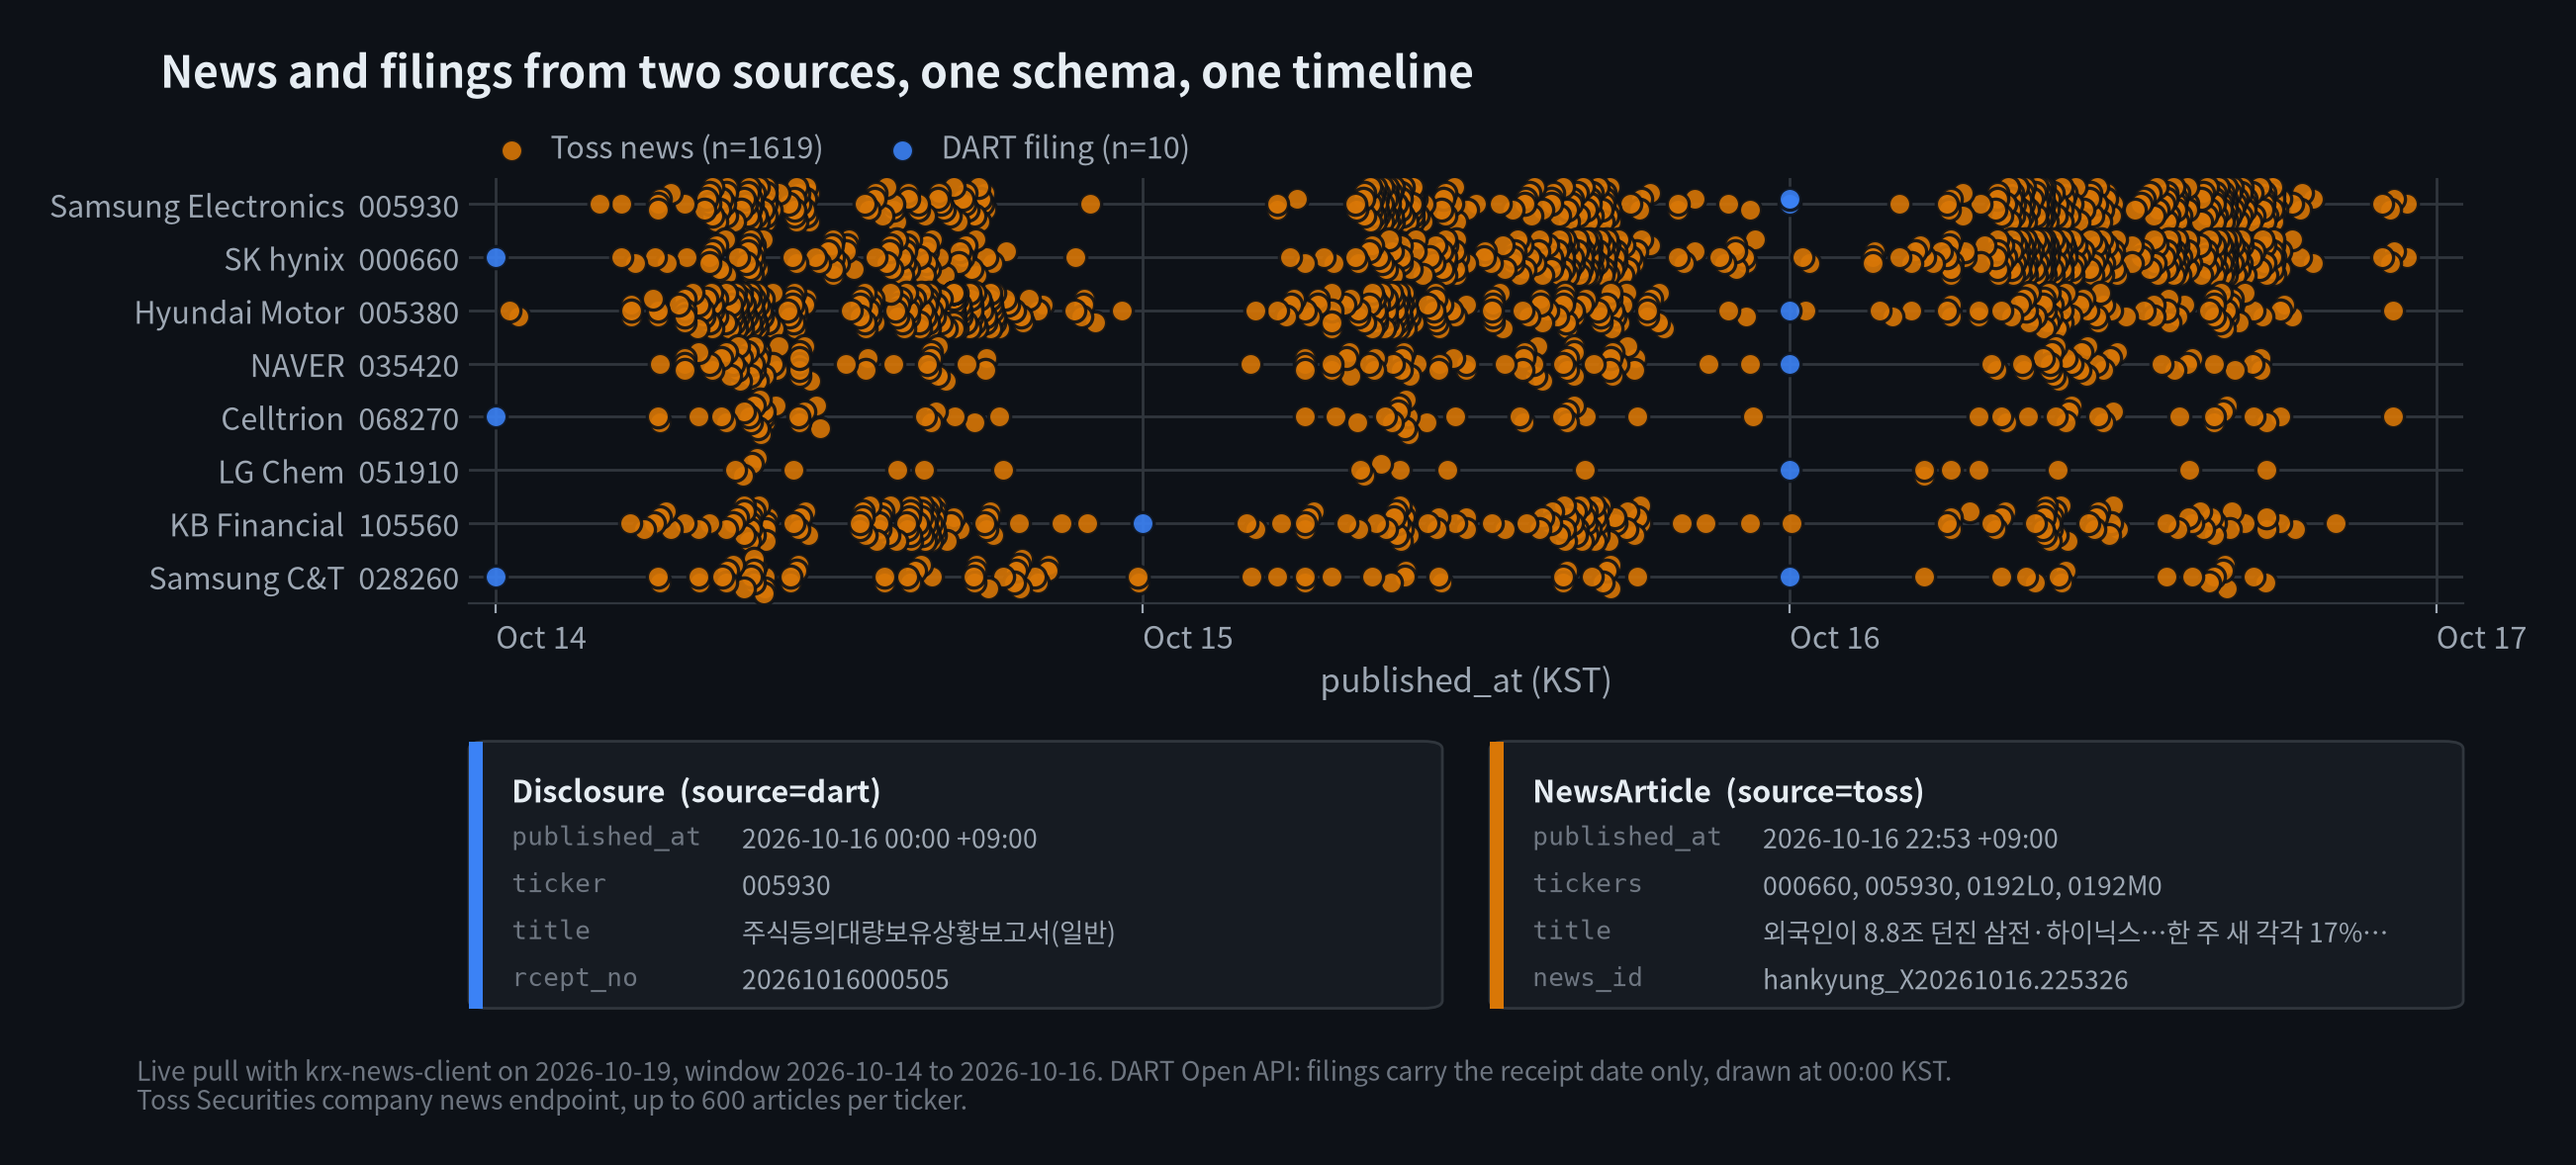
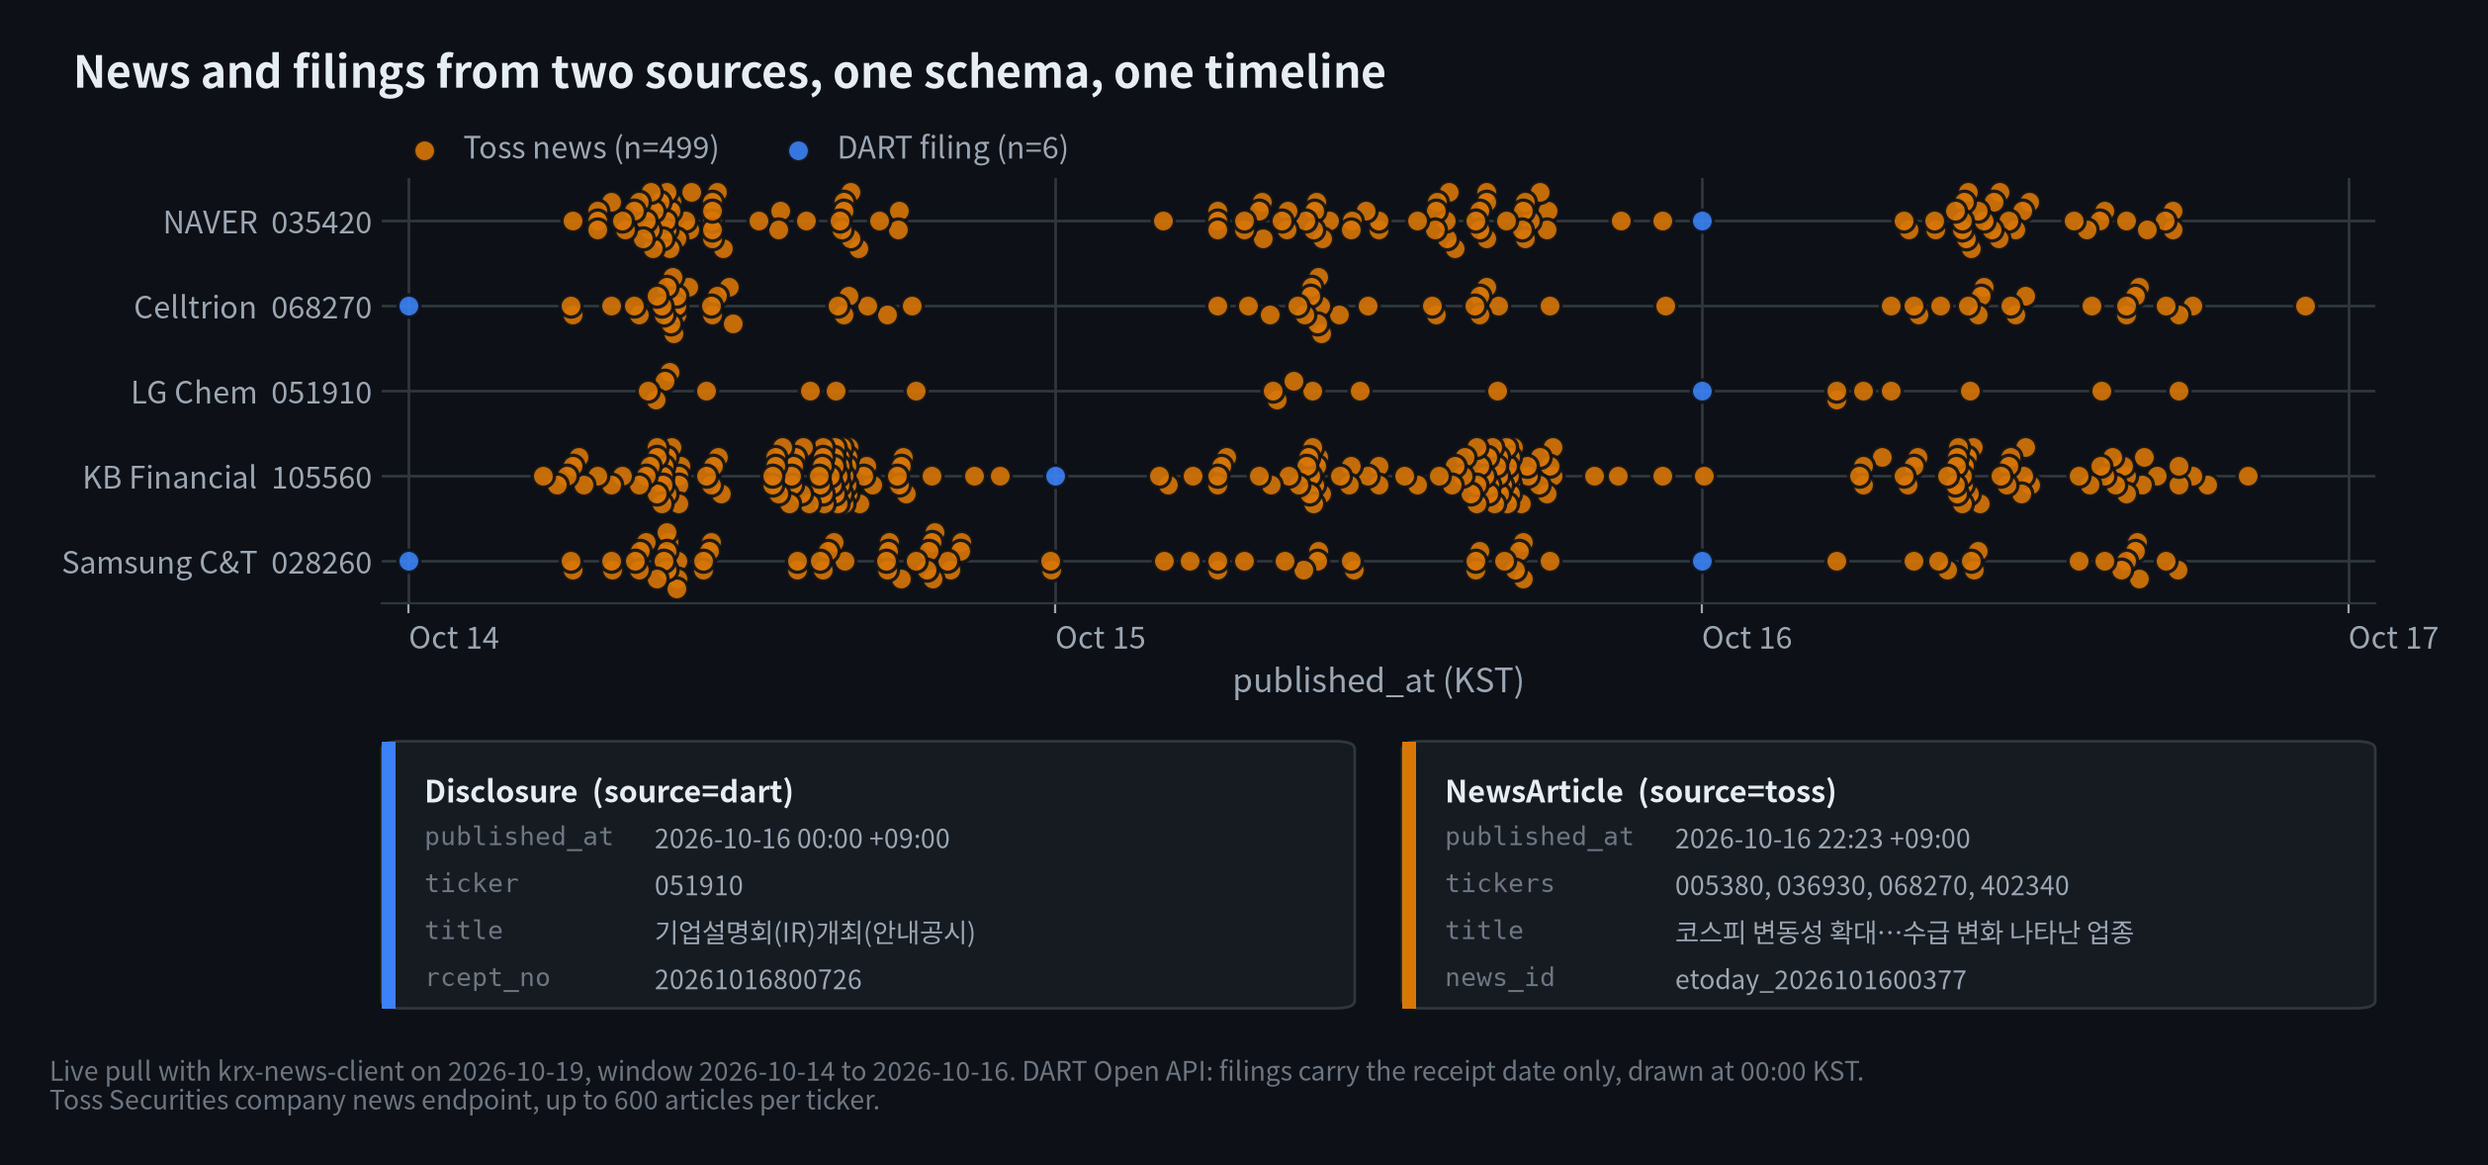
docs(readme): 첫 화면을 훅·히어로·사실 셋·Quick start 로 다듬고 독립 리뷰를 반영
처음 보는 사람이 스크롤 전에 무엇인지·왜 흥미로운지·어떻게 써 보는지를 알게 한다.
본문은 위에서 아래로 읽을 때 필요한 것만 남기고, 모든 수치는 코드·데이터와 대조했다.
리뷰어가 짚은 과장·낡은 수치·깨진 예제를 고쳤다. 관련 프로젝트 푸터는 stack.yml 생성분 그대로.

diff --git a/scripts/make_hero.py b/scripts/make_hero.py
@@ -26,10 +26,8 @@ ROOT = Path(__file__).resolve().parent.parent
 DATA = ROOT / "docs" / "images" / "hero-data.json"
 
 #: 그림에 보일 종목 (위→아래 순서). 이름은 영어로 — 그림 안 글자는 영어.
+#: 초대형주(삼성전자·SK하이닉스·현대차)는 3일에 350건이 넘어 점이 뭉개진다 — 그림에는 넣지 않는다.
 TICKERS = [
-    ("005930", "Samsung Electronics"),
-    ("000660", "SK hynix"),
-    ("005380", "Hyundai Motor"),
     ("035420", "NAVER"),
     ("068270", "Celltrion"),
     ("051910", "LG Chem"),
@@ -137,7 +135,10 @@ def _card(fig, p, x0, y0, w, h, color, head, fields):
 def draw_factory(data: dict):
     start = date.fromisoformat(data["window"]["start"])
     end = date.fromisoformat(data["window"]["end"])
-    tickers = data["tickers"]
+    # JSON 에 더 많은 종목이 저장돼 있어도 TICKERS 순서·범위대로만 그린다.
+    shown = [c for c, _ in TICKERS]
+    tickers = sorted((t for t in data["tickers"] if t["code"] in shown),
+                     key=lambda t: shown.index(t["code"]))
     rows = {t["code"]: i for i, t in enumerate(tickers)}
     items = [it for it in data["items"] if it["ticker"] in rows
              and start <= datetime.fromisoformat(it["published_at"]).astimezone(KST).date() <= end]

diff --git a/README.md b/README.md
@@ -1,5 +1,7 @@
 # krx-news-client
 
+**DART 공시와 토스증권 뉴스를 한 스키마로 받는 Python 클라이언트 — 기사 본문과 종목별 과거 뉴스까지, `pip install` 한 줄.**
+
 [![CI](https://github.com/younghwan91/krx-news-client/actions/workflows/ci.yml/badge.svg)](https://github.com/younghwan91/krx-news-client/actions/workflows/ci.yml)
 [![Python](https://img.shields.io/badge/python-3.11%2B-blue.svg)](https://www.python.org/downloads/)
 [![License](https://img.shields.io/github/license/younghwan91/krx-news-client)](https://github.com/younghwan91/krx-news-client/blob/main/LICENSE)
@@ -10,19 +12,15 @@
   <img alt="DART 공시와 토스증권 뉴스를 종목별 한 타임라인에 찍고, 두 출처가 같은 필드로 채워진 레코드 카드 두 장" src="docs/images/hero-light.png" width="100%">
 </picture>
 
-**한국 주식시장의 뉴스·공시를 모아 하나의 스키마로 내주는 Python 클라이언트 라이브러리** — DART, 토스증권.
-
-매체마다 HTML 구조도 갱신 주기도 제각각이라, 뉴스를 쓰려는 쪽이 매번 크롤러를 다시 짜게 된다. 그 일을 한 번만 하려고 만들었다. [kiwoom-client](https://github.com/younghwan91/kiwoom-client)와 같은 성격의 라이브러리다 — 서버를 띄우지 않고, 호출한 프로세스 안에서 그때그때 매체에 직접 요청해 정규화된 결과를 돌려준다.
-
-## 설치
-
-Python 3.11 이상.
-
-```bash
-pip install krx-news-client
-```
+- **두 출처, 한 타임라인.** 공시(`Disclosure`)와 기사(`NewsArticle`)가 `id`·`source`·`title`·`url`·`published_at`(KST, tz 포함)을 같은 이름으로 갖는다. 출처가 늘어도 호출 코드는 그대로다.
+- **조용한 0건 대신 예외.** 토스는 비공식 내부 API라 예고 없이 바뀔 수 있다. 종목별 뉴스 응답의 형식이 달라지면 빈 목록을 돌려주지 않고 `TossResponseError`를 올린다(대시보드 피드는 `scrape_news(strict=True)`를 주면 예외). 잘못된 종목코드·페이지 크기는 요청 전에 `ValueError`로 막는다.
+- **종목별 과거 뉴스를 페이지로 넘긴다.** 100건씩, 토스가 허용하는 오프셋 10,000건까지. 대형주는 그게 6개월에 못 미친다.
 
 ## 빠른 시작
+
+```bash
+pip install krx-news-client   # Python 3.11 이상
+```
 
 ```python
 import asyncio
@@ -37,19 +35,30 @@ async def main():
 asyncio.run(main())
 ```
 
-실행하면 이런 식으로 출력된다:
-
 ```
 KR 코스피, 외국인 순매수에 2%대 상승 마감 2025-06-10 15:30:00+09:00
 US 엔비디아, 실적 발표 앞두고 강세 2025-06-10 14:05:00+09:00
 ...
 ```
 
-토스 대시보드 피드는 **현재 스냅샷**이다. 해외(`nation="US"`) 기사가 절반 넘게 섞여 있고, 본문(`content`)은 비어 있으며, 과거로 넘길 수 없다. 본문과 과거 기사는 따로 가져온다:
+## 무엇을 하나
+
+| 소스 | 데이터 | 수집 방식 |
+|---|---|---|
+| DART (dart.fss.or.kr) | 공시 목록·원문 | 공식 Open API (키 필요) |
+| 토스증권 (tossinvest.com) | 대시보드 뉴스·기사 본문·종목별 뉴스 | 비공식 내부 API |
+
+- `TossScraper.scrape_news()` — 대시보드 피드의 **현재 스냅샷**. 해외(`nation="US"`) 기사가 절반 가까이 섞여 있고 본문은 비어 있으며 과거로 넘길 수 없다.
+- `TossScraper.fetch_article_detail()` / `fetch_article_detail_raw()` — 기사 본문 전체·감성 라벨·언론사 원문 URL. `_raw`는 원본 dict.
+- `TossScraper.scrape_company_news()` / `company_news_page()` — 종목별 뉴스를 과거로 페이징. 전자는 정규화된 목록, 후자는 원본 dict 한 페이지.
+- `DartScraper.scrape_disclosures()` — 공시 목록(기본: 어제~오늘 KST, 전체 시장). 키를 여러 개 주면 일 20,000건 한도를 넘길 때 다음 키로 자동 전환.
+- `DartScraper.search_disclosures*()` / `fetch_document()` — DART 원본 응답과 공시 원문(`document.xml`). 백필용 엄격 경로.
+- `Deduplicator` — 폴링할 때 처음 본 것만 넘긴다(기사는 `id`, 공시는 접수번호 기준).
+
+### 토스: 본문·종목별 이력
 
 ```python
 from datetime import date
-from krx_news_client import TossScraper
 
 async with TossScraper() as scraper:
     detail = await scraper.fetch_article_detail(articles[0].url)  # 본문 전체·감성 라벨·언론사 원문 URL
@@ -60,32 +69,28 @@ async with TossScraper() as scraper:
     items, _ = await scraper.company_news_page("005930", number=1)  # 원본 dict 한 페이지
 ```
 
-DART 공시는 API 키가 필요하다:
+### DART: 폴링과 백필
 
 ```python
 from krx_news_client import DartScraper
 
 async with DartScraper(api_key="...") as scraper:   # 또는 DartScraper.from_env()
     disclosures = await scraper.scrape_disclosures()  # 기본: 어제~오늘(KST), 전체 시장
-```
 
-날짜 범위·시장을 직접 지정하거나, 여러 키를 순환시켜 일 20,000건 한도를 넘는 대량 백필도 가능하다:
-
-```python
 scraper = DartScraper(api_key=["key1", "key2", "key3"])  # 한도 초과 시 다음 키로 자동 전환
 disclosures = await scraper.scrape_disclosures(
     bgn_de="20250101", end_de="20250331", corp_cls="Y"  # Y=코스피, K=코스닥, N=코넥스
 )
 ```
 
-정규화된 `Disclosure`가 아니라 DART 원본 응답이 필요하면 `search_disclosures`(한 페이지)/`search_disclosures_all`(전 페이지)/`search_disclosures_range`(여러 해·여러 시장)를 쓴다 — 결측을 조용히 넘기지 않고 `DartAPIError`를 그대로 올리는 엄격 경로라 백필에 적합하다. DART는 기업을 지정하지 않은 검색을 **달력 3개월**로 제한하는데, `search_disclosures_range`가 `quarter_ranges`로 알아서 쪼갠다:
+DART 원본 응답이 필요하면 `search_disclosures`(한 페이지)/`search_disclosures_all`(전 페이지)/`search_disclosures_range`(여러 해·여러 시장). DART는 기업을 지정하지 않은 검색을 **달력 3개월**로 제한하는데, `search_disclosures_range`가 `quarter_ranges`로 알아서 쪼갠다:
 
 ```python
 rows = await scraper.search_disclosures_range(bgn_de="20160901", end_de="20260915", corp_cls=["Y", "K"])
-docs = await scraper.fetch_document(rows[0]["rcept_no"])  # 공시 원문(document.xml) → DisclosureDocument.text
+docs = await scraper.fetch_document(rows[0]["rcept_no"])  # 공시 원문(document.xml) → docs[0].text
 ```
 
-폴링할 때는 `Deduplicator`로 처음 본 것만 넘긴다(기사는 `id`, 공시는 접수번호 기준):
+### 폴링
 
 ```python
 from krx_news_client import Deduplicator
@@ -97,22 +102,19 @@ while True:
     await asyncio.sleep(180)
 ```
 
-같은 스크레이퍼를 `asyncio.run`으로 여러 번 불러도 된다 — 이벤트 루프가 바뀌면 HTTP 클라이언트를 새로 만든다(0.3.x까지는 두 번째 호출이 조용히 일부 결과를 잃었다).
+같은 스크레이퍼를 `asyncio.run`으로 여러 번 불러도 된다(이벤트 루프가 바뀌면 HTTP 클라이언트를 새로 만든다). 더 많은 예제는 [`examples/`](examples/)에 있다.
 
-더 많은 예제는 [`examples/`](examples/) 참고.
+## 왜 이렇게 만들었나
 
-## 수집 소스
+- **서버가 아니라 라이브러리다.** 스케줄러·캐시·저장 계층이 없다. 호출한 프로세스 안에서 그때그때 매체에 요청해 정규화된 결과를 돌려주고, 저장은 호출자 몫이다([quant-airflow](https://github.com/younghwan91/quant-airflow)가 이 라이브러리로 수집해 TimescaleDB에 적재한다). [kiwoom-client](https://github.com/younghwan91/kiwoom-client)와 같은 성격이다.
+- **조용한 0건보다 예외가 낫다.** 결과가 백테스트·실매매 입력이라 빈 결과가 "그날 뉴스 없음"으로 굳으면 데이터에 구멍이 난다. 종목별 뉴스 응답의 형식 변화는 `TossResponseError`(대시보드 피드는 기본 `strict=False`라 실패한 피드를 건너뛰고, `strict=True`면 예외), 잘못된 인자는 `ValueError`, DART 한도 소진은 `DartQuotaExceededError`로 올려 "공시 없음"(status=013)과 "한도 초과"(status=020)를 구분한다.
+- **엄격 경로와 관용 경로를 섞지 않는다.** `search_disclosures*`는 `DartAPIError`를 그대로 올리고(백필용), `scrape_disclosures`는 오류 페이지에서 로그를 남기고 그때까지 모은 결과를 돌려준다(실시간 폴링용).
+- **뉴스·공시 전용이다.** 토스의 수급·호가·AI 시그널·실시간 순위는 넣지 않는다. 수급·호가는 공식 API가 있고, 시그널·순위는 과거 시점 재현이 안 된다.
+- **시각은 전부 KST, tz 포함.** 티커는 한국 종목 6자리로 통일한다.
 
-| 소스 | 데이터 | 수집 방식 |
-|---|---|---|
-| DART (dart.fss.or.kr) | 공시 목록·원문 | 공식 Open API (키 필요) |
-| 토스증권 (tossinvest.com) | 대시보드 뉴스·기사 본문·종목별 뉴스 | 비공식 내부 API |
+## 토스 사용 시 주의
 
-수집한 기사는 매체와 무관하게 `NewsArticle`, 공시는 `Disclosure` 한 벌로 정규화한다. 소스가 늘어도 호출 코드는 그대로다.
-
-### 토스 사용 시 주의
-
-토스는 **비공식 내부 API**라 예고 없이 막히거나 형식이 바뀔 수 있다. 형식이 바뀌면 종목별 뉴스 경로는 빈 결과 대신 `TossResponseError`를 올린다. 종목별 뉴스(`/api/v2/news/companies/{code}`)에서 직접 확인한 함정은 다음과 같다(2026-09-15, 2026-10-05).
+토스는 **비공식 내부 API**라 예고 없이 막히거나 형식이 바뀔 수 있다. 종목별 뉴스(`/api/v2/news/companies/{code}`)에서 직접 확인한 함정은 다음과 같다(2026-09-15, 2026-10-05).
 
 - **코드는 6자리만** 받는다. `A005930`이나 ISIN을 넣으면 토스는 오류 없이 0건을 준다. 그래서 라이브러리가 `A` 접두어는 벗기고, 그 외 형식이면 `ValueError`를 낸다.
 - **페이지 번호는 1부터** 시작한다. `number=0`이면 토스가 400을 주므로 호출 전에 `ValueError`를 낸다.
@@ -122,7 +124,7 @@ while True:
 - **순서가 대략적이다.** 페이지 안에서도 정렬돼 있지 않고, 이웃 페이지끼리 시각이 하루쯤 겹친다. 그래서 `since`는 페이지 전체가 그보다 오래됐을 때만 멈추는 조건으로 쓰고, 결과는 id로 중복을 걷어낸 뒤 최신순으로 정렬해 돌려준다.
 - **시장 전체 기사가 섞인다.** "코스피 마감" 같은 기사는 `stockCodes`가 없으므로 `tickers`가 비어 있다.
 
-요청 간격은 `BaseScraper`의 0.5~1.5초 무작위 지연을 토스에도 그대로 쓴다. 비공식 API라 보수적으로 두는 편이 차단 위험이 낮기 때문이다. 속도가 필요하면 `scraper.min_delay`와 `scraper.max_delay`로 조절한다. DART는 공식 API이고 일한도만 제약이라 지연이 0이다.
+요청 간격은 토스가 0.5~1.5초 무작위 지연(`BaseScraper` 기본은 0.5~2.0초)이다. 비공식 API라 보수적으로 두는 편이 차단 위험이 낮기 때문이다. 속도가 필요하면 `scraper.min_delay`와 `scraper.max_delay`로 조절한다. DART는 공식 API이고 일한도만 제약이라 지연이 0이다.
 
 ## 응답 필드
 
@@ -169,7 +171,7 @@ flowchart LR
         direction TB
         Toss["TossScraper\n.scrape_news()\n.fetch_article_detail()\n.scrape_company_news()"]
         Dart["DartScraper\n.scrape_disclosures()\n.search_disclosures_range()\n.fetch_document()"]
-        Base["BaseScraper\nUA 순환 · 간격 조절(throttle)\n재시도 · 429 백오프"]
+        Base["BaseScraper\nUA 무작위 선택 · 간격 조절(throttle)\n재시도 · 429 백오프"]
         Schema["schemas.py\nNewsArticle · Disclosure\nDisclosureDocument"]
 
         Toss --> Base
@@ -187,9 +189,7 @@ flowchart LR
     Client -->|list[NewsArticle]\n / list[Disclosure]| Caller
 ```
 
-`BaseScraper`가 재시도(429·5xx만)·429 백오프 등 공통 처리를 맡고, 각 스크레이퍼는 매체 응답을 파싱해 정규화된 스키마로 변환하는 일만 한다. DART는 키가 여럿이면 한도 초과 시 다음 키로 자동 전환하고, 전부 소진되면 `DartQuotaExceededError`를 던져 "공시 없음"(status=013)과 "한도 초과"(status=020)를 구분할 수 있게 한다. 그 외 오류 상태는 `DartAPIError` — `search_disclosures*`는 이를 그대로 올리고(엄격), `scrape_disclosures`는 페이지 단위로 로그만 남기고 계속한다(관용적, 실시간 폴링용).
-
-저장이 필요하면 호출하는 쪽에서 알아서 한다 (예: [quant-airflow](https://github.com/younghwan91/quant-airflow)가 이 라이브러리로 수집해 TimescaleDB에 적재).
+`BaseScraper`가 재시도(429·5xx만)·429 백오프 등 공통 처리를 맡고, 각 스크레이퍼는 매체 응답을 파싱해 정규화된 스키마로 바꾸는 일만 한다.
 
 ## 라이선스
 
@@ -199,7 +199,6 @@ Apache License 2.0 — 전문은 [LICENSE](LICENSE) 참조.
 
 - 🐛 버그 제보, 질문, 기능 제안: [GitHub Issues](https://github.com/younghwan91/krx-news-client/issues)
 - 📈 업데이트 소식: [팔로우 @younghwan91](https://github.com/younghwan91)
-
 
 ## 관련 프로젝트 — 오픈소스 퀀트 스택
 
